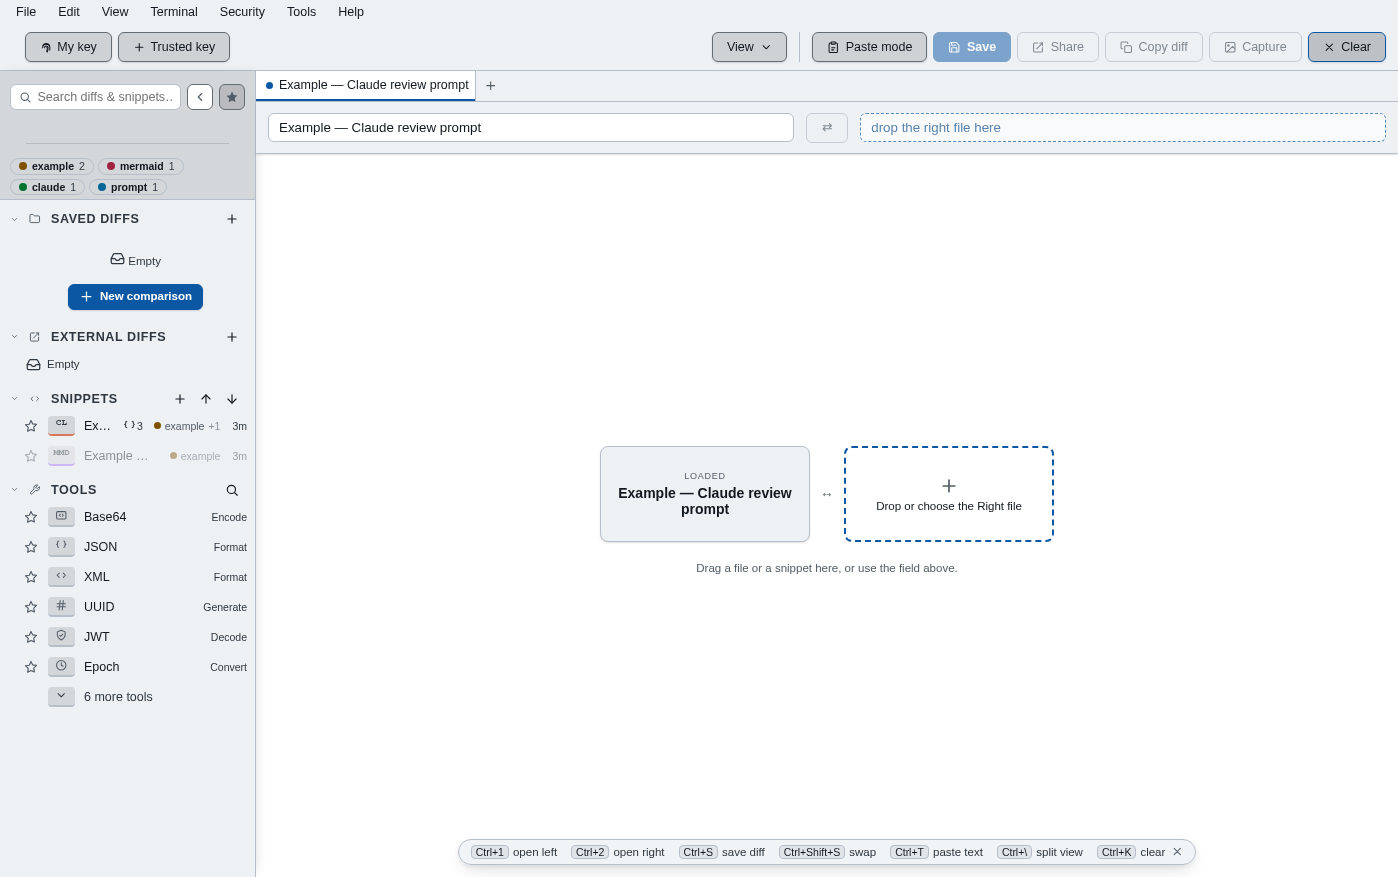
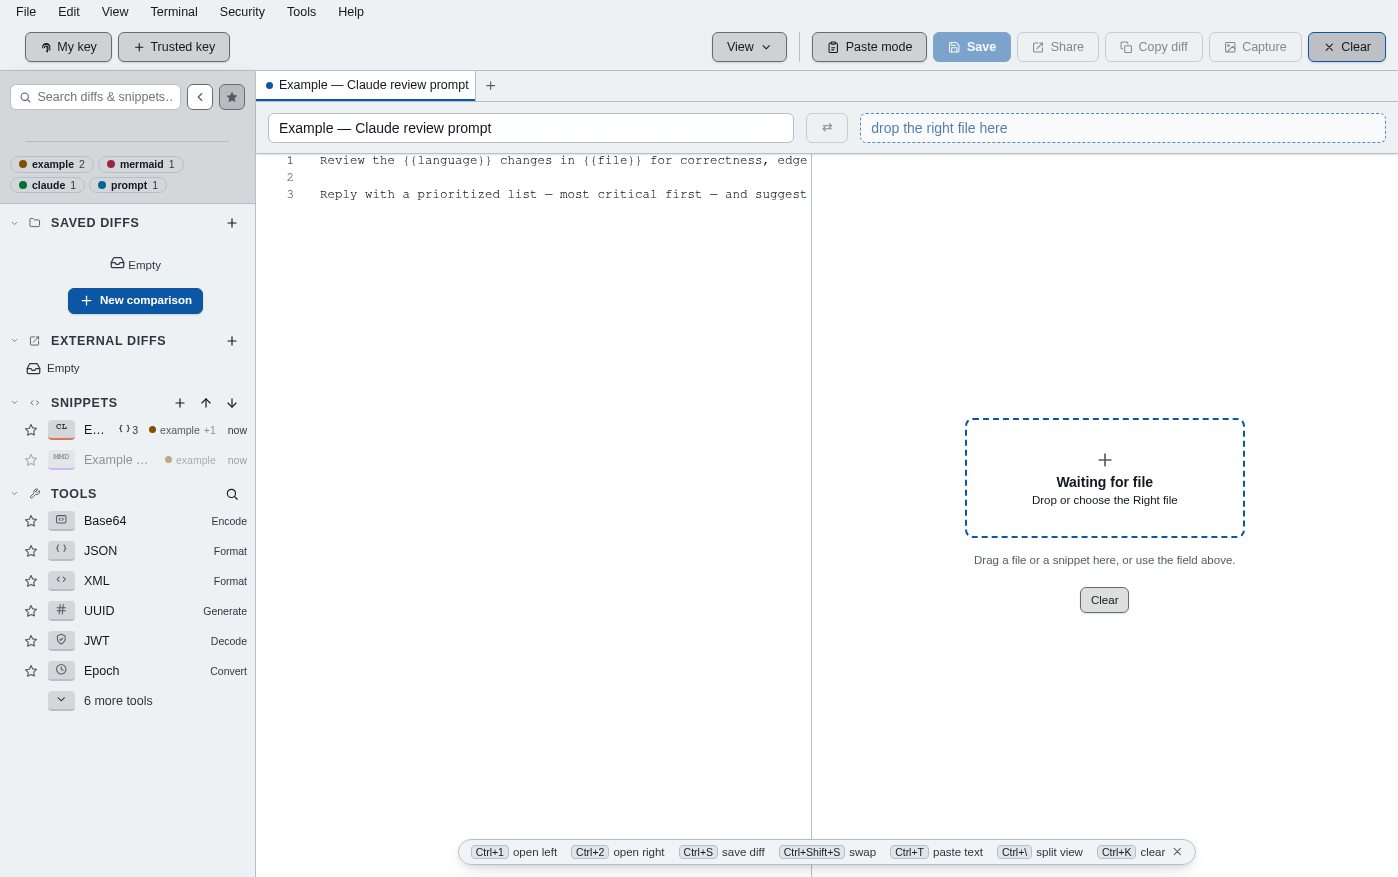
feat: show a single opened file while the other side waits
Opening one file (Finder/Explorer Open With, CLI, drop) now shows its
contents read-only in its pane, with "Waiting for file" only in the
empty pane, so the app works as a single-file viewer too.

Also adds `make docker-setup` (Colima on macOS) and documents the
Docker flow in the README.

diff --git a/src/renderer/src/components/WaitingForSecond.vue b/src/renderer/src/components/WaitingForSecond.vue
@@ -1,62 +1,64 @@
 <script setup>
-// One side loaded. The old version was two lines of centred prose, which said
-// what was missing without SHOWING it. This mirrors the comparison instead: a
-// filled slot for what is loaded, an empty dashed one for what is not, in the
-// order the panes are in — so the shape of the screen is the instruction.
+// One side loaded: that file is shown in its own pane so it can be read on its
+// own, and the empty pane sits where the missing file will go.
 import { computed } from 'vue'
 import AppIcon from './AppIcon.vue'
+import SingleFileView from './SingleFileView.vue'
 
 const props = defineProps({
   name: { type: String, required: true },
   /** Which side is still empty — 'left' or 'right'. */
-  missing: { type: String, required: true }
+  missing: { type: String, required: true },
+  /** @type {import('vue').PropType<import('../types').TextComparable|import('../types').SpreadsheetComparable|null>} */
+  comparable: { type: Object, default: null }
 })
 
 const emit = defineEmits(['pick', 'clear'])
 
-// A list, not two mirrored `v-if` branches: the separator sat at a fixed
-// position between them, so a missing LEFT put it after both.
-const slotOrder = computed(() =>
-  props.missing === 'left' ? ['open', 'filled'] : ['filled', 'open']
+const paneOrder = computed(() =>
+  props.missing === 'left' ? ['open', 'loaded'] : ['loaded', 'open']
+)
+const isViewable = computed(
+  () => props.comparable?.kind === 'text' && typeof props.comparable.text === 'string'
 )
 </script>
 
 <template>
-  <div class="empty waiting">
-    <div class="wait-slots">
-      <template v-for="(slot, i) in slotOrder" :key="slot">
-        <span v-if="i" class="wait-vs" aria-hidden="true">↔</span>
+  <div class="waiting">
+    <template v-for="pane in paneOrder" :key="pane">
+      <section v-if="pane === 'loaded'" class="wait-pane loaded">
+        <SingleFileView v-if="isViewable" :comparable="comparable" />
+        <div v-else class="wait-slot filled">
+          <span class="wait-tag">{{ $t('app.waiting.loaded') }}</span>
+          <span class="wait-name">{{ name }}</span>
+        </div>
+      </section>
+      <section v-else class="wait-pane open">
         <button
-          v-if="slot === 'open'"
           type="button"
           class="wait-slot open"
           :aria-label="$t('app.waiting.chooseSide', { side: $t(`common.${missing}`) })"
           @click="emit('pick', missing)"
         >
           <AppIcon name="plus" />
+          <span class="wait-title">{{ $t('app.waiting.title') }}</span>
           <span class="wait-label">{{
             $t('app.waiting.dropSide', { side: $t(`common.${missing}`) })
           }}</span>
         </button>
-        <div v-else class="wait-slot filled">
-          <span class="wait-tag">{{ $t('app.waiting.loaded') }}</span>
-          <span class="wait-name">{{ name }}</span>
-        </div>
-      </template>
-    </div>
-    <p class="wait-hint">{{ $t('app.waiting.hint') }}</p>
-    <!-- A wrong first file was a dead end: the open slot only fills the OTHER
-         side. The accessible name is distinct from the toolbar's own Clear,
-         which two controls sharing would make ambiguous to every test. -->
-    <button
-      type="button"
-      class="btn btn-sm wait-clear"
-      :data-tip="$t('app.waiting.clearTip')"
-      :aria-label="$t('app.waiting.clearLabel')"
-      @click="emit('clear')"
-    >
-      {{ $t('app.waiting.clear') }}
-    </button>
+        <p class="wait-hint">{{ $t('app.waiting.hint') }}</p>
+        <!-- Accessible name kept distinct from the toolbar's own Clear. -->
+        <button
+          type="button"
+          class="btn btn-sm wait-clear"
+          :data-tip="$t('app.waiting.clearTip')"
+          :aria-label="$t('app.waiting.clearLabel')"
+          @click="emit('clear')"
+        >
+          {{ $t('app.waiting.clear') }}
+        </button>
+      </section>
+    </template>
   </div>
 </template>
 

diff --git a/src/renderer/src/components/styles/WaitingForSecond.css b/src/renderer/src/components/styles/WaitingForSecond.css
@@ -1,10 +1,26 @@
-/* Two slots in pane order, so the empty one sits where the missing file will.
-   The accent is on the dashed RIM of the empty slot, never on a label — as ink
-   it is under the reading floor on solar, meridian and sepia. */
-.wait-slots {
+/* Two panes in pane order, split like the diff they turn into. The accent is on
+   the dashed RIM of the empty slot, never on a label — as ink it is under the
+   reading floor on solar, meridian and sepia. */
+.waiting {
+  flex: 1;
+  min-height: 0;
   display: flex;
-  align-items: stretch;
-  gap: var(--space-3);
+}
+.wait-pane {
+  flex: 1 1 0;
+  min-width: 0;
+  min-height: 0;
+  display: flex;
+  flex-direction: column;
+}
+.wait-pane + .wait-pane {
+  border-left: 1px solid var(--border);
+}
+.wait-pane.open,
+.wait-pane.loaded:has(> .wait-slot.filled) {
+  align-items: center;
+  justify-content: center;
+  padding: var(--space-4);
 }
 .wait-slot {
   display: flex;
@@ -12,8 +28,8 @@
   align-items: center;
   justify-content: center;
   gap: var(--space-1);
-  width: 210px;
-  min-height: 96px;
+  width: min(280px, 100%);
+  min-height: 120px;
   padding: var(--space-3);
   border-radius: var(--radius-lg);
   text-align: center;
@@ -23,8 +39,6 @@
   background: var(--bg-raised);
   box-shadow: var(--shadow-1);
 }
-/* Dashed, because the slot is a place for something rather than a thing. It IS
-   clickable — the plus said so before it was, which is the whole complaint. */
 .wait-slot.open {
   border: 2px dashed var(--accent);
   background: none;
@@ -51,7 +65,8 @@
   letter-spacing: 0.08em;
   color: var(--text-dim);
 }
-.wait-name {
+.wait-name,
+.wait-title {
   font-size: var(--font-lg);
   font-weight: 600;
   color: var(--text);
@@ -61,15 +76,11 @@
   font-size: var(--font-sm);
   color: var(--text);
 }
-.wait-vs {
-  align-self: center;
-  font-size: var(--font-lg);
-  color: var(--text-dim);
-}
 .wait-hint {
   margin-top: var(--space-4);
   font-size: var(--font-sm);
   color: var(--text-dim);
+  text-align: center;
 }
 
 /* Set apart from the hint above it: this undoes what the screen is showing, so

diff --git a/src/renderer/src/components/SingleFileView.vue b/src/renderer/src/components/SingleFileView.vue
@@ -1,0 +1,29 @@
+<script setup>
+import { ref, watch } from 'vue'
+import { useMonacoInput } from '../composables/useMonacoInput'
+import { shaped } from '../utils/props'
+
+const props = defineProps({
+  /** @type {import('vue').PropType<import('../types').TextComparable>} */
+  comparable: { type: Object, required: true, validator: shaped('text', 'language') }
+})
+
+const container = ref(null)
+const content = ref(props.comparable.text)
+const language = ref(props.comparable.language)
+watch(
+  () => props.comparable,
+  (c) => {
+    content.value = c.text
+    language.value = c.language
+  }
+)
+
+useMonacoInput({ container, content, language, readOnly: ref(true) })
+</script>
+
+<template>
+  <div ref="container" class="single-file" data-testid="single-file-view"></div>
+</template>
+
+<style scoped src="./styles/SingleFileView.css"></style>

diff --git a/src/renderer/src/App.vue b/src/renderer/src/App.vue
@@ -156,11 +156,12 @@ useWindowFocusRefresh()
             <StreamedDiffViewer v-else-if="store.comparableKind === 'streamed'" />
             <SpreadsheetDiffViewer v-else />
           </template>
-          <!-- One side loaded: make it obvious a second file is still needed. -->
+          <!-- One side loaded: shown on its own, beside the pane still waiting. -->
           <WaitingForSecond
             v-else-if="store.left || store.right"
             :name="(store.left || store.right).name"
             :missing="missingSide"
+            :comparable="store.leftComparable || store.rightComparable"
             @pick="store.pick(missingSide)"
             @clear="store.clear()"
           />

diff --git a/src/renderer/src/types.js b/src/renderer/src/types.js
@@ -81,6 +81,14 @@
  */
 
 /**
+ * The comparable produced by textAdapter.
+ * @typedef {object} TextComparable
+ * @property {'text'} kind
+ * @property {string} text
+ * @property {string} language  Monaco language id
+ */
+
+/**
  * The comparable produced by xlsxAdapter for the (upcoming) grid viewer.
  * @typedef {object} SpreadsheetComparable
  * @property {'spreadsheet'} kind

diff --git a/src/renderer/src/components/styles/SingleFileView.css b/src/renderer/src/components/styles/SingleFileView.css
@@ -1,0 +1,4 @@
+.single-file {
+  flex: 1;
+  min-height: 0;
+}

diff --git a/README.md b/README.md
@@ -63,7 +63,7 @@ Builds are **unsigned**, so SmartScreen and Gatekeeper warn on first launch (the
 | **Diagrams**             | Two Mermaid files compare as a picture, not as text — one diagram carrying both revisions, so an inserted node reads as one change instead of a rewrite.                                                                                                                                                                                                                                                                                                                                                                                                                                                                                                                                                                                                                                                                                                                                                                                      |
 | **Tools**                | JSON, Base64, UUID, JWT, Epoch, URL, Lines, XML, checksums, a regex tester, find & replace, text encryption — rich panels, not blank text boxes. All of them live in their own sidebar section; star the ones you reach for and they stay at the top.                                                                                                                                                                                                                                                                                                                                                                                                                                                                                                                                                                                                                                                                                         |
 | **Merge conflicts**      | Registered as git's `difftool` **and** `mergetool`: `git mergetool` opens the list of every conflicted file first — what is left, what is done, and how many regions each still holds. Take a whole side from a row without opening anything, or pick one for a real three-way view: the two branches either side, the file you are producing in the middle, and that middle one is a full editor. Each side is labelled with the branch it came from and read out of git's index, so no `<<<<<<<` ever reaches the screen; a button on each pane's inner edge moves that side across, F7 walks the conflicts, and where neither side is right you just type the answer. Resolve them in any order — saving returns you to the list, and closing it never ends the merge. It writes each merged file back and tells git it is done — the only files Diff Bro writes over; everything else it produces is a new file you picked the place for. |
-| **Open with**            | Diff Bro appears in Finder's **Open With** menu and Explorer's **Open with** list for text and data files — `.txt`, `.md`, `.json`, `.xml`, `.yaml`, `.csv`, `.log`, `.diff` and the rest. The first file opens a tab and takes the left pane; the next joins it on the right; the one after that starts a new tab. Select two at once and they open as one comparison. It is offered, never imposed: Diff Bro does not make itself the default handler for anything, so double-clicking a JSON still opens whatever it always did. |
+| **Open with**            | Diff Bro appears in Finder's **Open With** menu and Explorer's **Open with** list for text and data files — `.txt`, `.md`, `.json`, `.xml`, `.yaml`, `.csv`, `.log`, `.diff` and the rest. The first file opens a tab and takes the left pane, its contents shown straight away so a single file can simply be read; the next joins it on the right; the one after that starts a new tab. Select two at once and they open as one comparison. It is offered, never imposed: Diff Bro does not make itself the default handler for anything, so double-clicking a JSON still opens whatever it always did. |
 | **Terminal**             | `diffbro compare a.json b.json` opens a comparison in the running app, and either side can name a git revision instead of a file — `diffbro compare HEAD~1:src/app.js src/app.js` reads the old copy straight out of the repository, so you never have to produce one first. `diffbro open` raises the app, `diffbro backup <path>` writes an encrypted archive. No port, no daemon.                                                                                                                                                                                                                                                                                                                                                                                                                                                                                                                                                          |
 | **Yours to arrange**     | Twenty themes (Nord, Sepia, Solar, Nyan, Matrix, Volcano, Tide, Graphite, plus accessibility-grade Contrast and Beacon), shared tags, adjustable limits.                                                                                                                                                                                                                                                                                                                                                                                                                                                                                                                                                                                                                                                                                                                                                                                      |
 
@@ -146,8 +146,33 @@ npm run dev      # run it
 npm run check    # lint + tests
 ```
 
-No local Node? The same flow runs in Docker: `make dev`, `make check`, `make e2e`
-(see [docker/README.md](docker/README.md) and `make help`).
+### Running in Docker
+
+No local Node? The same flow runs in Docker — the real Electron app on a virtual
+display, viewed in the browser over noVNC.
+
+1. **Get a Docker runtime.** Docker Desktop works. On macOS without it:
+
+   ```bash
+   make docker-setup   # brew installs Colima + the docker CLI, starts the VM
+   ```
+
+   Size the VM with `make docker-setup COLIMA_FLAGS="--cpu 6 --memory 12"`;
+   `colima stop` / `colima start` afterwards.
+
+2. **Start the app.**
+
+   ```bash
+   make up             # build the image and start the container
+   ```
+
+   Open <http://localhost:6080/vnc.html> and click _Connect_. Source edits
+   hot-reload; `make restart` relaunches, `make stop` stops it.
+
+3. **Test in the container.** `make check` (lint + unit tests), `make e2e`
+   (Playwright, against a virtual display).
+
+More in [docker/README.md](docker/README.md) and `make help`.
 
 Electron · Vue 3 · Pinia · Monaco. New formats plug in through the adapter
 registry rather than into the viewer.
